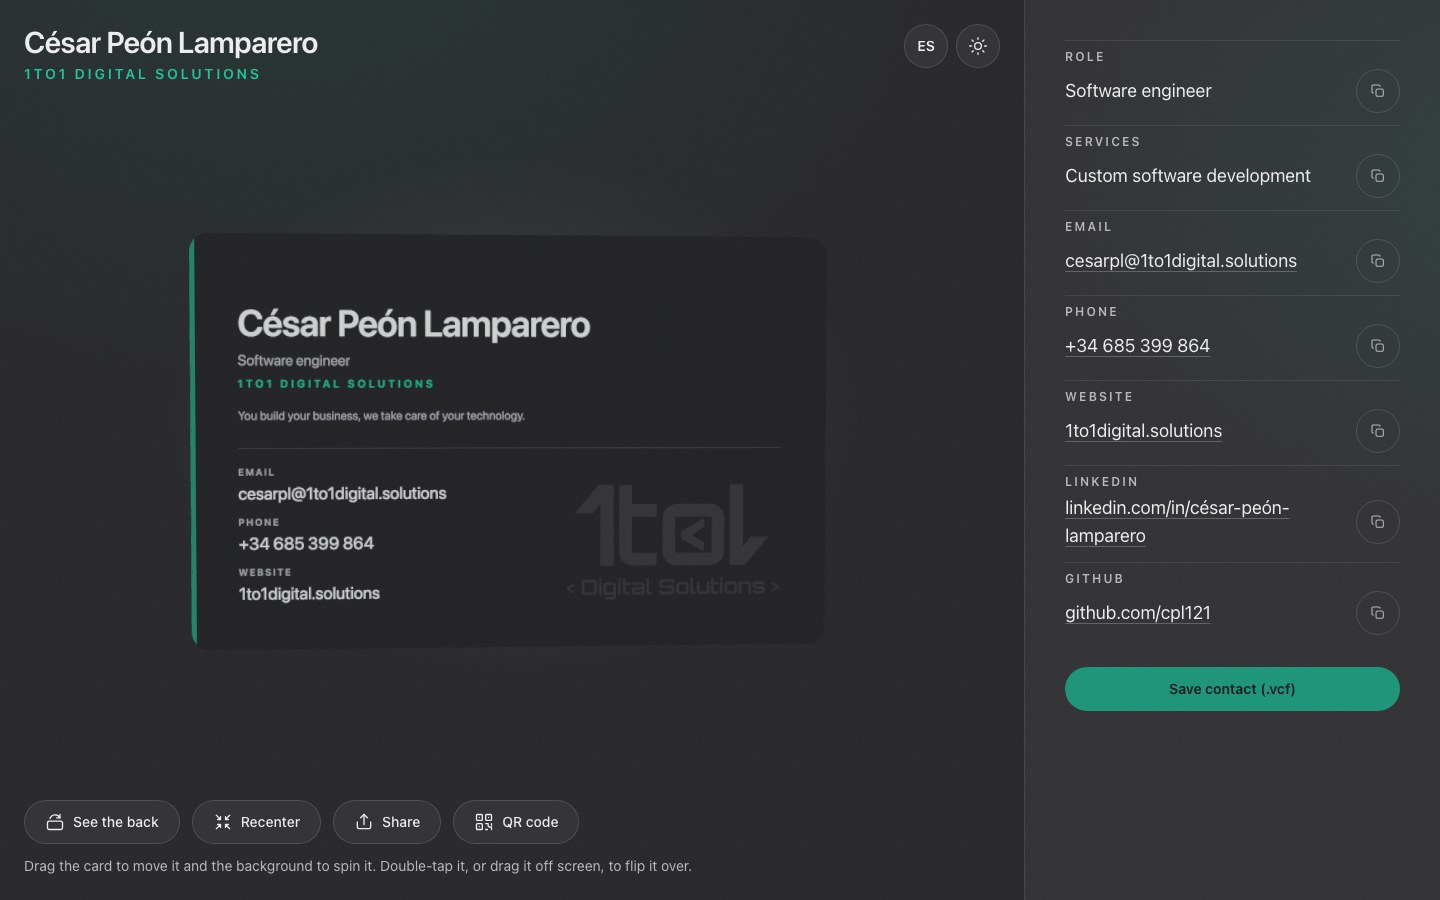
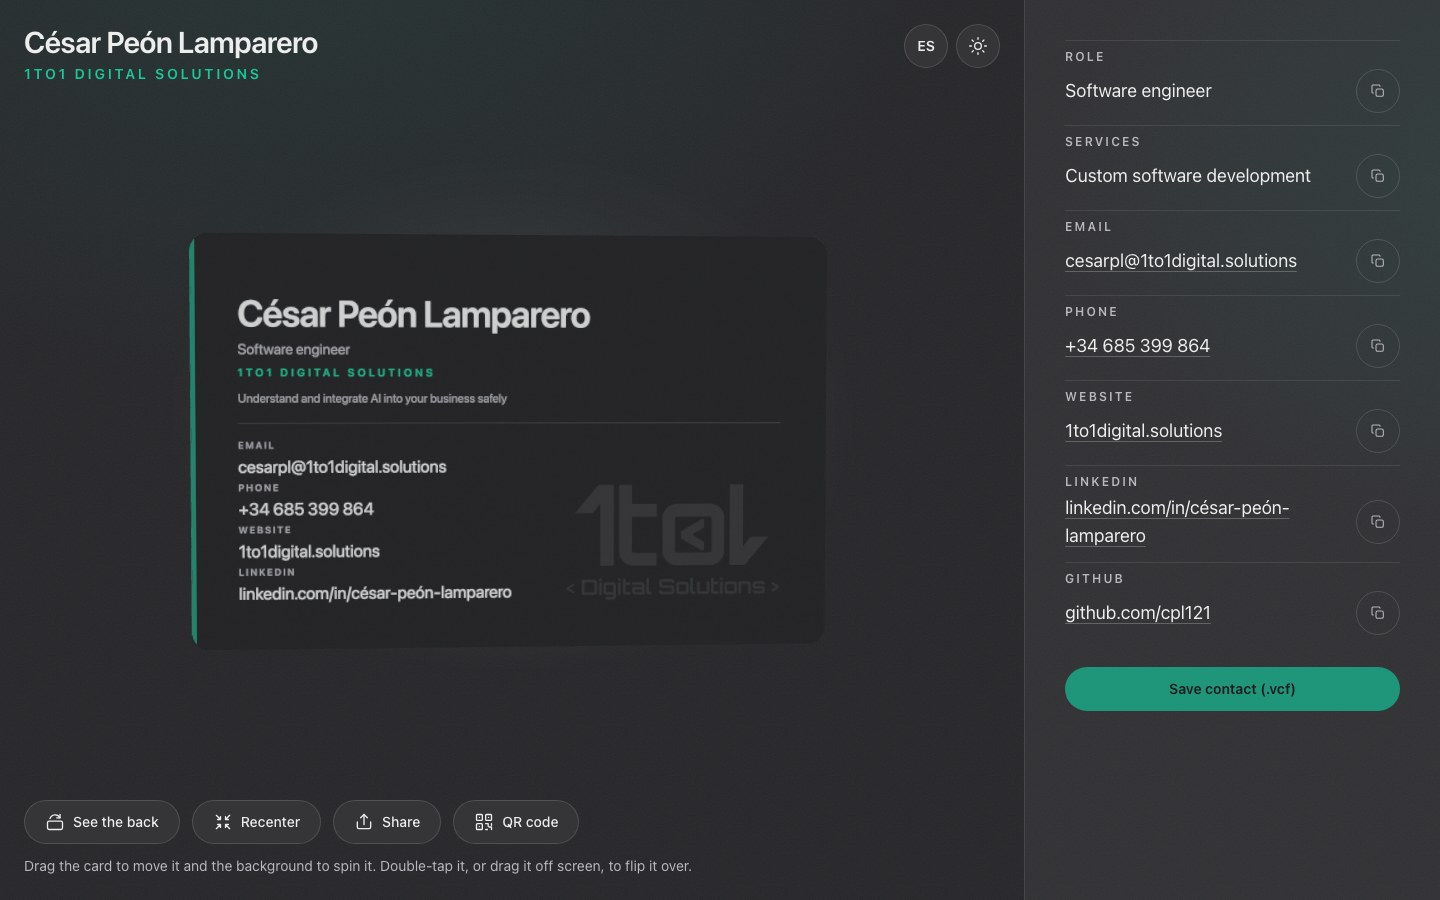
feat(card): set the definitive tagline and add the LinkedIn profile to the face
The tagline now reads «Entiende e integra la IA en tu negocio de forma segura» /
«Understand and integrate AI into your business safely», on the 3D face, the flat
card, the share image and the print files. The face also carries the LinkedIn
profile as a fourth field, with the data block tightened to fit. README screenshot
and print-ready PDFs regenerated.

Changed region(s): [[0.1562, 0.3111, 0.4062, 0.6844]]

diff --git a/components/contact-card/card-textures.ts b/components/contact-card/card-textures.ts
@@ -8,7 +8,7 @@ import {
   LOGO,
   WATERMARK,
 } from "@/lib/brand";
-import type { Contact, ContactData } from "@/lib/contact";
+import { type Contact, type ContactData, PROFILES } from "@/lib/contact";
 import type { Dictionary } from "@/lib/dictionary";
 
 /**
@@ -250,7 +250,7 @@ export function createFrontTexture(
   ctx.fillStyle = palette.ink;
   ctx.font = font(116, 600);
   setTracking(ctx, -2);
-  ctx.fillText(contact.name, PAD, 230);
+  ctx.fillText(contact.name, PAD, 200);
 
   // The job title, between the name and the company: in muted ink and
   // without small caps so it qualifies the name without disputing its
@@ -258,34 +258,41 @@ export function createFrontTexture(
   ctx.fillStyle = palette.inkMuted;
   ctx.font = font(46, 400);
   setTracking(ctx, 0);
-  ctx.fillText(contact.jobTitle, PAD, 380);
+  ctx.fillText(contact.jobTitle, PAD, 345);
 
   ctx.fillStyle = palette.accentInk;
   ctx.font = font(34, 600);
   setTracking(ctx, 10);
-  ctx.fillText(contact.company.toUpperCase(), PAD, 460);
+  ctx.fillText(contact.company.toUpperCase(), PAD, 425);
 
   // The tagline, separated from the identity block by some breathing room so
   // it reads as a sentence of its own and not as a fourth line of the name.
   // It goes in muted ink and smaller than the job title: it says what the
-  // company does without taking the place of whoever signs the card. At this
-  // size it fits on one line with room to spare in both languages, with more
-  // than a third of the width free.
+  // company stands for without taking the place of whoever signs the card.
+  // At this size it fits on one line with room to spare in both languages,
+  // with more than a third of the width free.
   ctx.fillStyle = palette.inkMuted;
   ctx.font = font(38, 400);
   setTracking(ctx, 0);
-  ctx.fillText(contact.tagline, PAD, 560);
+  ctx.fillText(contact.tagline, PAD, 505);
 
   ctx.fillStyle = palette.inkMuted;
   ctx.globalAlpha = 0.3;
-  ctx.fillRect(PAD, 680, W - PAD * 2, 2);
+  ctx.fillRect(PAD, 600, W - PAD * 2, 2);
   ctx.globalAlpha = 1;
 
-  // Data block anchored to the bottom edge, with the same margin as at the top.
-  const first = H - PAD - (58 + 54) - 2 * 160;
+  // Data block anchored to the bottom edge, with the same margin as at the
+  // top. Four fields: the three ways to reach them and the LinkedIn profile,
+  // which is where a card handed over at an event usually leads next. The
+  // step between fields is tighter than with three, and the block still
+  // clears the divider.
+  const STEP = 135;
+  const first = H - PAD - (58 + 54) - 3 * STEP;
+  const [linkedIn] = PROFILES;
   drawField(ctx, palette, first, labels.email, contact.email);
-  drawField(ctx, palette, first + 160, labels.phone, contact.phone);
-  drawField(ctx, palette, first + 320, labels.website, contact.website);
+  drawField(ctx, palette, first + STEP, labels.phone, contact.phone);
+  drawField(ctx, palette, first + 2 * STEP, labels.website, contact.website);
+  drawField(ctx, palette, first + 3 * STEP, linkedIn.name, linkedIn.address);
 
   const texture = toTexture(canvas);
   refreshWhenDrawn(

diff --git a/components/contact-card/card-fallback.test.tsx b/components/contact-card/card-fallback.test.tsx
@@ -1,6 +1,6 @@
 import { renderToStaticMarkup } from "react-dom/server";
 import { describe, expect, it } from "vitest";
-import { contactIn } from "@/lib/contact";
+import { contactIn, PROFILES } from "@/lib/contact";
 import { LANGUAGES } from "@/lib/i18n";
 import { CardFallback } from "./card-fallback";
 
@@ -14,8 +14,8 @@ describe("flat card", () => {
   const markup = (language: (typeof LANGUAGES)[number]) =>
     renderToStaticMarkup(<CardFallback note="" language={language} />);
 
-  it.each(LANGUAGES)("carries the tagline on the front in %s", (language) => {
-    expect(markup(language)).toContain(contactIn(language).tagline);
+  it("carries the LinkedIn profile with the other ways to reach them", () => {
+    expect(markup("es")).toContain(PROFILES[0].address);
   });
 
   it.each(LANGUAGES)("still introduces whoever signs the card in %s", (language) => {
@@ -26,8 +26,13 @@ describe("flat card", () => {
     expect(html).toContain(contact.company);
   });
 
-  /** What they do belongs to the panel: the card has the tagline and nothing else. */
-  it("does not repeat the panel's services line on the card", () => {
-    expect(markup("es")).not.toContain(contactIn("es").services);
+  /**
+   * The tagline is the one line on the card that says what the company
+   * stands for; what the business does is listed in the panel, not here.
+   */
+  it.each(LANGUAGES)("carries the tagline and not the services line in %s", (language) => {
+    const html = markup(language);
+    expect(html).toContain(contactIn(language).tagline);
+    expect(html).not.toContain(contactIn(language).services);
   });
 });

diff --git a/app/opengraph-image.tsx b/app/opengraph-image.tsx
@@ -34,7 +34,7 @@ const CONTACT = contactIn(DEFAULT_LANGUAGE);
 
 export const size = { width: 1200, height: 630 };
 export const contentType = "image/png";
-export const alt = `Tarjeta de contacto de ${CONTACT.name}, ${CONTACT.jobTitle} de ${CONTACT.company}. «${CONTACT.tagline}» Con su email, su teléfono y su web.`;
+export const alt = `Tarjeta de contacto de ${CONTACT.name}, ${CONTACT.jobTitle} de ${CONTACT.company}. «${CONTACT.tagline}». Con su email, su teléfono y su web.`;
 
 /**
  * The page's starting theme, not the dark one by name: if tomorrow the page
@@ -118,7 +118,7 @@ export default function Image() {
             {/* The tagline makes it into the preview because it makes it onto
                 the card: at this size it fits on one line with room to spare,
                 and it is what lets whoever sees the shared link know what the
-                company does.
+                company stands for.
 
                 Its breathing room is smaller than on the card face: here the
                 paper is far more landscape and the air left between the two

diff --git a/lib/contact.ts b/lib/contact.ts
@@ -35,9 +35,9 @@ export type ContactData = {
 export type ContactText = {
   /** Job title: `TITLE` in the vCard, `jobTitle` in schema.org. */
   jobTitle: string;
-  /** Company tagline: what it promises, on the card itself. */
+  /** Company tagline: the one line that says what they stand for, on the card itself. */
   tagline: string;
-  /** What the business does, in plain words. Goes in the details panel, not on the card. */
+  /** What the business does, in plain words. Goes in the details panel and the structured data, not on the card. */
   services: string;
 };
 
@@ -102,8 +102,8 @@ export const TRANSLATED: Record<keyof ContactText, Record<Language, string>> = {
     en: "Software engineer",
   },
   tagline: {
-    es: "Tú creas tu negocio, nosotros nos encargamos de tu tecnología.",
-    en: "You build your business, we take care of your technology.",
+    es: "Entiende e integra la IA en tu negocio de forma segura",
+    en: "Understand and integrate AI into your business safely",
   },
   services: {
     es: "Desarrollo de software personalizado",

diff --git a/components/contact-card/card-fallback.tsx b/components/contact-card/card-fallback.tsx
@@ -3,7 +3,7 @@
 import Image from "next/image";
 import { useState } from "react";
 import { LOGO } from "@/lib/brand";
-import { contactIn } from "@/lib/contact";
+import { contactIn, PROFILES } from "@/lib/contact";
 import { dictionary } from "@/lib/dictionary";
 import type { Language } from "@/lib/i18n";
 
@@ -77,10 +77,13 @@ export function CardFallback({
                   {contact.tagline}
                 </span>
               </span>
-              <span className="flex flex-col gap-[1cqw] text-[3.4cqw] text-ink">
+              <span className="flex flex-col gap-[0.8cqw] text-[3.2cqw] text-ink">
                 <span>{contact.email}</span>
                 <span>{contact.phone}</span>
                 <span>{contact.website}</span>
+                {/* The LinkedIn profile, as on the 3D face: the first of the
+                    profiles is the one that goes on the card. */}
+                <span>{PROFILES[0].address}</span>
               </span>
             </span>
 

diff --git a/app/opengraph-image.test.tsx b/app/opengraph-image.test.tsx
@@ -213,8 +213,8 @@ describe("preview metadata", () => {
     expect(alt).toContain(CONTACT.name);
     expect(alt).toContain(CONTACT.jobTitle);
     expect(alt).toContain(CONTACT.company);
-    // The tagline is seen in the image: whoever cannot see it has to find
-    // out all the same.
+    // The tagline is seen in the image: whoever cannot see it has to read
+    // it all the same.
     expect(alt).toContain(CONTACT.tagline);
   });
 

diff --git a/ESTADO.md b/ESTADO.md
@@ -7,8 +7,11 @@
 
 ## ⏭ NEXT STEP (first thing on return)
 
-- Nothing pending: the card is complete and ready to be published. The next task sets what
-  comes next.
+- Nothing pending. On 2026-11-02 the card got its definitive tagline («Entiende e integra la
+  IA en tu negocio de forma segura» / «Understand and integrate AI into your business safely»)
+  and the LinkedIn profile as a fourth field on the face; the print-ready files in
+  `print/out/` (`npm run print:cards`) were regenerated with it. Next.js went to 16.4.3 (three
+  critical advisories on 16.4.0 made `next build` stop).
 
 ## What contact-card is
 
